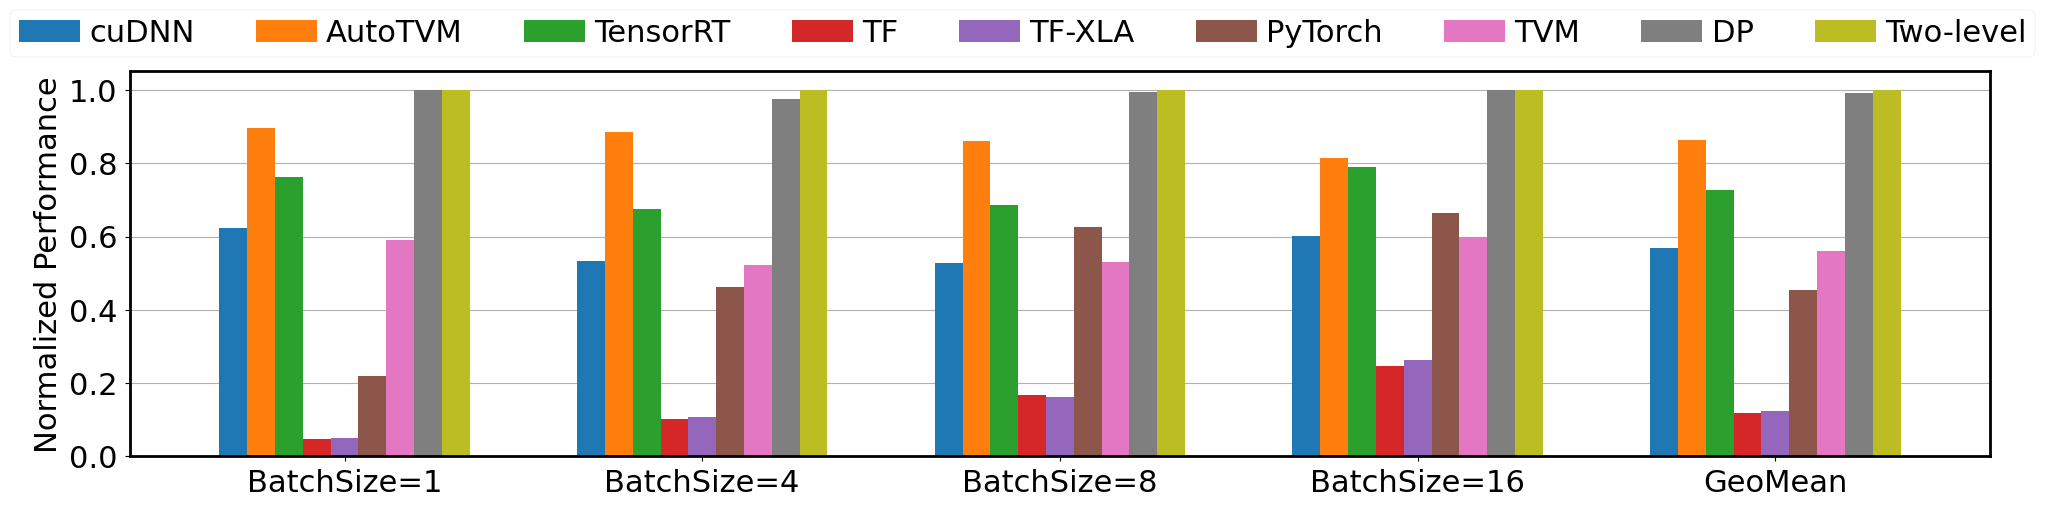
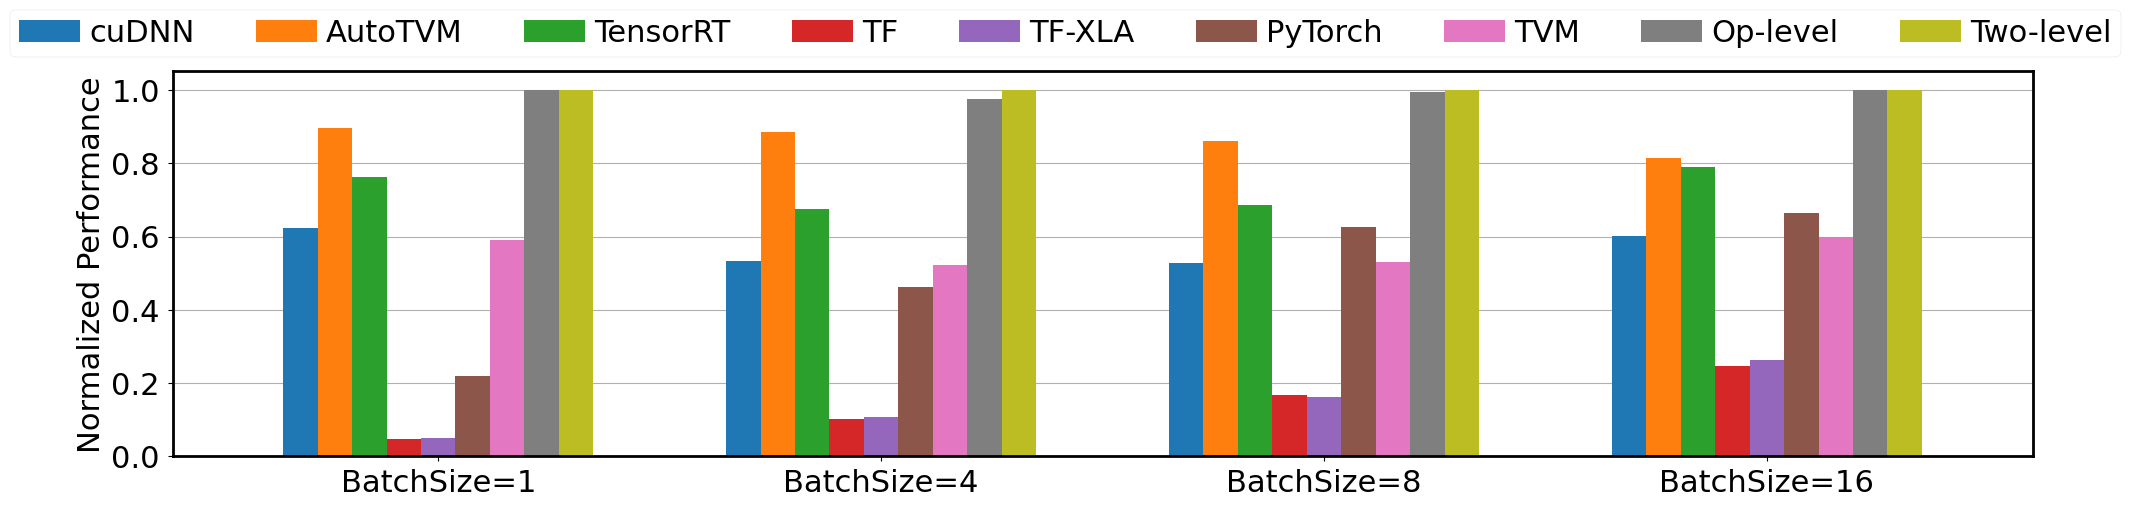
[E2E Plot] Intermediate results ready

diff --git a/sandbox/testing/plot_e2e_perf.py b/sandbox/testing/plot_e2e_perf.py
@@ -16,7 +16,7 @@ def setup_df_with_baselines_and_method(df, methods):
     # Make sure column order is following before we normalize perf
     df = df[methods]
 
-    df = df.rename(columns={'AutoTVM-libs': 'TVM'})
+    df = df.rename(columns={'AutoTVM-libs': 'TVM', 'DP':'Op-level'})
 
     df = df.loc[FINAL_NETWORKS]
     df = df.rename(index=NET_NAME_TO_OFFICIAL)
@@ -29,7 +29,7 @@ def setup_df_with_baselines_and_method_diff_batch(df, methods):
     # Make sure column order is following before we normalize perf
     df = df[methods]
 
-    df = df.rename(columns={'AutoTVM-libs': 'TVM'})
+    df = df.rename(columns={'AutoTVM-libs': 'TVM', 'DP':'Op-level'})
 
     df = df.loc[[1,4,8,16]]
     BATCH_SIZE_TO_TEXT = {
@@ -53,7 +53,7 @@ def setup_df_for_normalized_perf_plot_diff_batch(df):
     # print(df.iloc[0:5, :])
 
     # Add Geomean
-    df.loc['GeoMean'] = stats.gmean(df.iloc[0:5, :], axis=0)
+    # df.loc['GeoMean'] = stats.gmean(df.iloc[0:5, :], axis=0)
 
     # Correct Geomean of TF-XLA to deal with missing values
     xla_perf = [df.loc['BatchSize=1', 'TF-XLA'], df.loc['BatchSize=4', 'TF-XLA'],
